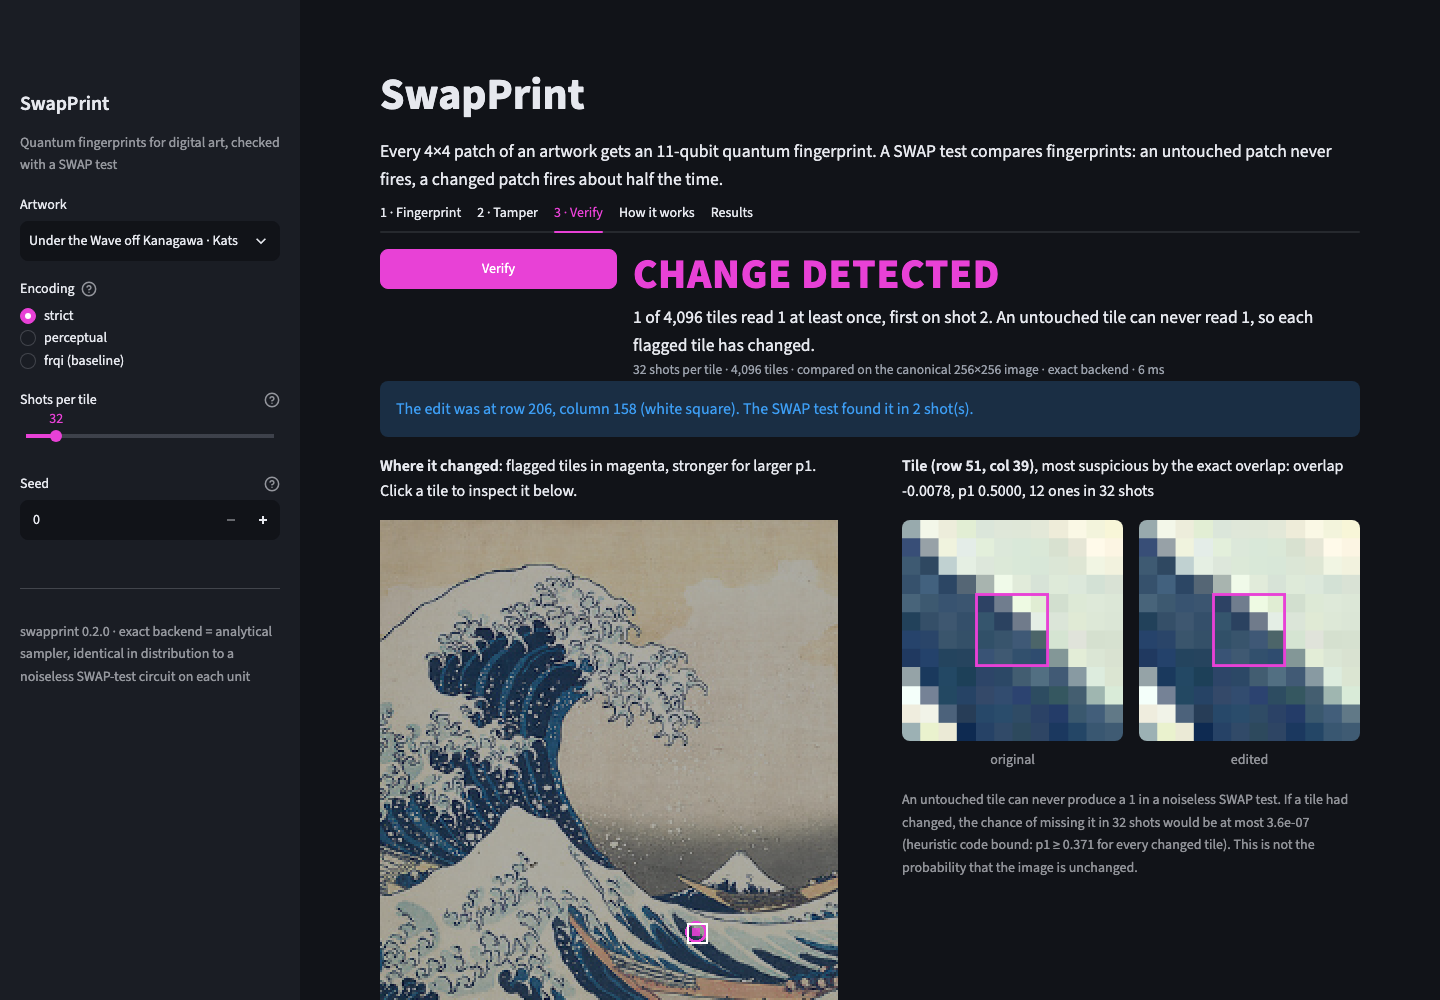
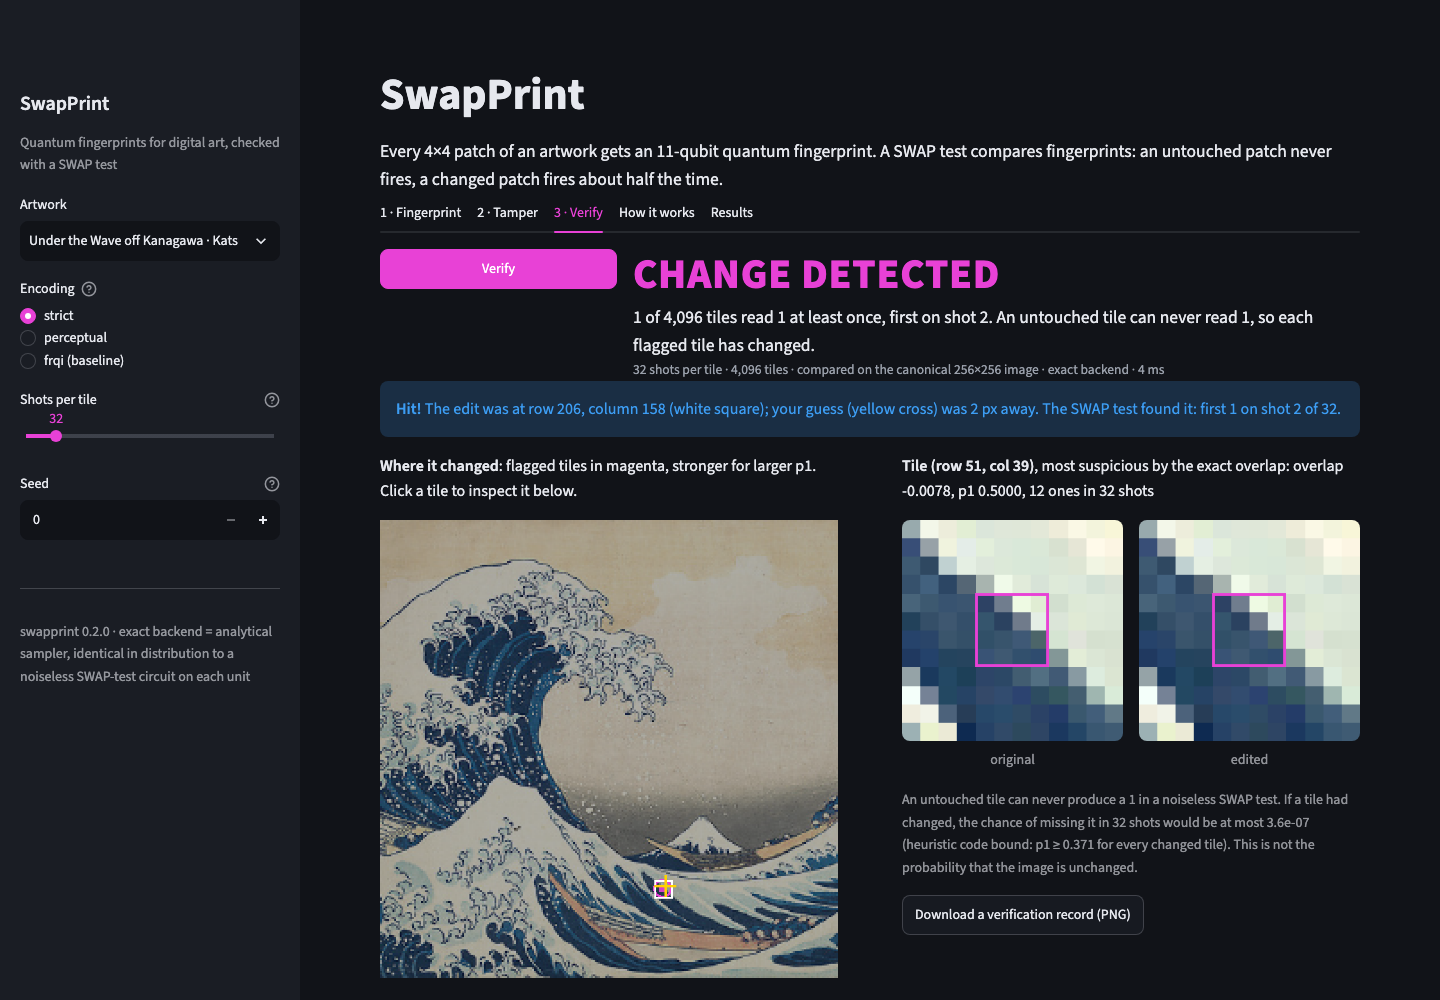
A3: feature freeze; final screenshots, error logging for caught UI errors, PLAN status

Changed region(s): [[0.25, 0.558, 0.5938, 1.0], [0.2812, 0.403, 0.9375, 0.434], [0.625, 0.899, 0.7812, 0.93]]

diff --git a/app/streamlit_app.py b/app/streamlit_app.py
@@ -14,6 +14,7 @@ import matplotlib  # noqa: E402
 matplotlib.use("Agg")  # Streamlit runs scripts off the main thread; the macOS GUI backend crashes there
 
 import io  # noqa: E402
+import logging  # noqa: E402
 import json  # noqa: E402
 import os  # noqa: E402
 import time  # noqa: E402
@@ -34,6 +35,7 @@ AER_ENABLED = os.environ.get("SWAPPRINT_NO_AER", "") != "1"
 ACCENT_HEX = "#E841D6"
 CANON = sp.config.CANON
 IST = timezone(timedelta(hours=5, minutes=30), "IST")
+LOG = logging.getLogger("swapprint.app")
 
 st.markdown(
     f"""
@@ -118,6 +120,7 @@ def safe(fn):
         try:
             return fn(*a, **k)
         except Exception as exc:  # noqa: BLE001
+            LOG.exception("UI section %s failed", fn.__name__)  # full traceback in the server log, never on screen
             st.error(f"Something went wrong here ({type(exc).__name__}). Try Reset, or another artwork.")
             if os.environ.get("SWAPPRINT_DEBUG"):
                 st.exception(exc)
